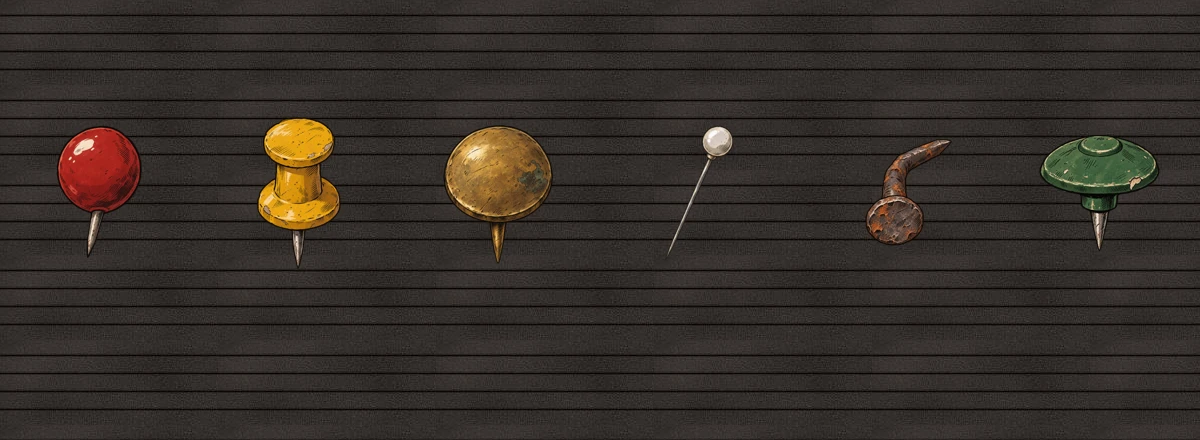
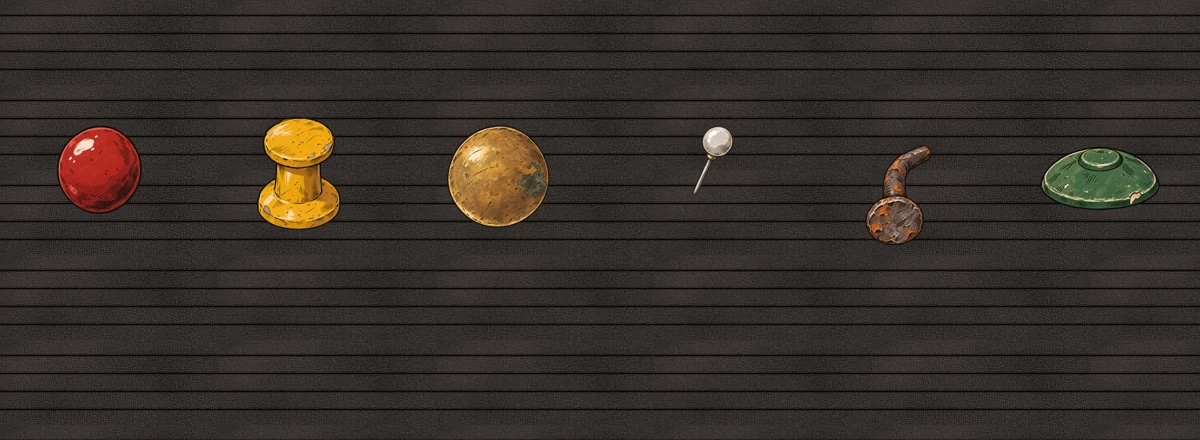
Careers: letter board frame and pins, second round

diff --git a/docs/design/carriere/asset/bacheca/registro.md b/docs/design/carriere/asset/bacheca/registro.md
@@ -281,3 +281,253 @@ Aggiunte dalla regia il 12 novembre 2026: l'esecutore le ha consegnate senza reg
 |---|---|
 | `composizioni/cornice-nove-fette.webp` | 820ab3747b6950e8ef18186cbd8e1f1569891a350e7ff9073be9c715bb380905 |
 | `composizioni/puntine-feltro.webp` | db0c9e9fe560009510132c092ea4f4b348d194949361bcb74d5b8585a3ad7a5b |
+
+## cornice-2
+
+| Campo | Valore |
+|---|---|
+| Operatore | Codex, sessione con generazione integrata |
+| Strumento | image_gen integrato in Codex; URL non esposto |
+| Modello / versione | non esposto dallo strumento |
+| Data e ora (file originale) | 12/11/2026 11:20:27 +0100 |
+| ID job | non esposto dallo strumento |
+| Commit preventivo dei prompt | `9b016d5` |
+| Prompt | [prompt-bacheca.md](../../prompt-bacheca.md#secondo-giro), cornice; testo integrale sotto |
+| Modalità | modifica guidata dal riferimento |
+| Dimensioni richieste | conservare dimensioni originali (1254×1254 px) |
[1 lines of base64/hex data omitted]
+| Parametri | un risultato; trasparenza richiesta; qualità e altri parametri non esposti |
+| Seed | non esposto dallo strumento |
+| Prompt riscritto | non esposto dallo strumento |
+| Campo negativo | paragrafo Avoid nel campo principale; nessun campo negativo separato |
[1 lines of base64/hex data omitted]
+| Altri allegati | nessuno |
+| Termini d’uso, condizioni e attribuzioni | non verificati |
+| C2PA | non verificato; originale conservato senza modifiche |
[2 lines of base64/hex data omitted]
+| Conversione | Pillow, WebP lossless, piena risoluzione; metadati non conservati; alfa nativo conservato, nessuno scontorno |
+| Esito del tentativo | candidato per il giudizio del proprietario |
+
+Testo inviato integralmente:
+
+~~~text
+Edit the attached frame illustration. Keep its size, shape, transparent inside, the narrow flat moulding, the mitred corners, the hand-inked European comic style and the overall dark stained wood. Change only the wear: make the wood more uniform and darker, an old dark walnut stain that has gone almost black with time and grime. Keep it clearly neglected, with a dull finish, fine scratches, small dents and grime in the joints, but reduce the chipped spots to a few small, scattered ones, and make them dark brown instead of light bare wood. The wear must look irregular and must not repeat along a side, so that the sides still work when cut out and repeated.
+
+Avoid: any other change to the image; light or pale patches; many chips; regular or repeating patterns; any text, letters, numbers, logos, brands, signatures or watermarks; anything inside the frame; gold or a polished antique look; photographic or 3D-rendered style.
+~~~
+
+## tonda-rossa-2
+
+| Campo | Valore |
+|---|---|
+| Operatore | Codex, sessione con generazione integrata |
+| Strumento | image_gen integrato in Codex; URL non esposto |
+| Modello / versione | non esposto dallo strumento |
+| Data e ora (file originale) | 12/11/2026 11:21:10 +0100 |
+| ID job | non esposto dallo strumento |
+| Commit preventivo dei prompt | `9b016d5` |
+| Prompt | [prompt-bacheca.md](../../prompt-bacheca.md#secondo-giro), tonda-rossa; testo integrale sotto |
+| Modalità | modifica guidata dal riferimento |
+| Dimensioni richieste | conservare dimensioni originali (1254×1254 px) |
[1 lines of base64/hex data omitted]
+| Parametri | un risultato; trasparenza richiesta; qualità e altri parametri non esposti |
+| Seed | non esposto dallo strumento |
+| Prompt riscritto | non esposto dallo strumento |
+| Campo negativo | paragrafo Avoid nel campo principale; nessun campo negativo separato |
[1 lines of base64/hex data omitted]
+| Altri allegati | nessuno |
+| Termini d’uso, condizioni e attribuzioni | non verificati |
+| C2PA | non verificato; originale conservato senza modifiche |
[2 lines of base64/hex data omitted]
+| Conversione | Pillow, WebP lossless, piena risoluzione; metadati non conservati; alfa nativo conservato, nessuno scontorno |
+| Esito del tentativo | candidato per il giudizio del proprietario |
+
+Testo inviato integralmente:
+
+~~~text
+Edit the attached object illustration. Keep the object, its colours, its shading, its hand-inked comic style, its size and position on the canvas and the transparent background. Change only this: the pushpin is pushed all the way into a felt board, so its steel point is not visible at all; only the round red plastic head shows, sitting right against the surface, seen from the front and slightly from above.
+
+Avoid: any other change to the object; a visible point, needle or shaft; a board, felt or any surface drawn in the image; cast shadows; any text, letters, numbers, logos, brands, signatures or watermarks; photographic or 3D-rendered style.
+~~~
+
+## cilindro-2
+
+| Campo | Valore |
+|---|---|
+| Operatore | Codex, sessione con generazione integrata |
+| Strumento | image_gen integrato in Codex; URL non esposto |
+| Modello / versione | non esposto dallo strumento |
+| Data e ora (file originale) | 12/11/2026 11:21:55 +0100 |
+| ID job | non esposto dallo strumento |
+| Commit preventivo dei prompt | `9b016d5` |
+| Prompt | [prompt-bacheca.md](../../prompt-bacheca.md#secondo-giro), cilindro; testo integrale sotto |
+| Modalità | modifica guidata dal riferimento |
+| Dimensioni richieste | conservare dimensioni originali (1254×1254 px) |
[1 lines of base64/hex data omitted]
+| Parametri | un risultato; trasparenza richiesta; qualità e altri parametri non esposti |
+| Seed | non esposto dallo strumento |
+| Prompt riscritto | non esposto dallo strumento |
+| Campo negativo | paragrafo Avoid nel campo principale; nessun campo negativo separato |
[1 lines of base64/hex data omitted]
+| Altri allegati | nessuno |
+| Termini d’uso, condizioni e attribuzioni | non verificati |
+| C2PA | non verificato; originale conservato senza modifiche |
[2 lines of base64/hex data omitted]
+| Conversione | Pillow, WebP lossless, piena risoluzione; metadati non conservati; alfa nativo conservato, nessuno scontorno |
+| Esito del tentativo | candidato per il giudizio del proprietario |
+
+Testo inviato integralmente:
+
+~~~text
+Edit the attached object illustration. Keep the object, its colours, its shading, its hand-inked comic style, its size and position on the canvas and the transparent background. Change only this: the push pin is pushed all the way into a felt board, so its steel point is not visible at all; only the yellow cylindrical grip shows, its base sitting right against the surface, seen from the front and slightly from above.
+
+Avoid: any other change to the object; a visible point, needle or shaft; a board, felt or any surface drawn in the image; cast shadows; any text, letters, numbers, logos, brands, signatures or watermarks; photographic or 3D-rendered style.
+~~~
+
+## ottone-2
+
+| Campo | Valore |
+|---|---|
+| Operatore | Codex, sessione con generazione integrata |
+| Strumento | image_gen integrato in Codex; URL non esposto |
+| Modello / versione | non esposto dallo strumento |
+| Data e ora (file originale) | 12/11/2026 11:23:28 +0100 |
+| ID job | non esposto dallo strumento |
+| Commit preventivo dei prompt | `9b016d5` |
+| Prompt | [prompt-bacheca.md](../../prompt-bacheca.md#secondo-giro), ottone; testo integrale sotto |
+| Modalità | modifica guidata dal riferimento |
+| Dimensioni richieste | conservare dimensioni originali (1254×1254 px) |
[1 lines of base64/hex data omitted]
+| Parametri | un risultato; trasparenza richiesta; qualità e altri parametri non esposti |
+| Seed | non esposto dallo strumento |
+| Prompt riscritto | non esposto dallo strumento |
+| Campo negativo | paragrafo Avoid nel campo principale; nessun campo negativo separato |
[1 lines of base64/hex data omitted]
+| Altri allegati | nessuno |
+| Termini d’uso, condizioni e attribuzioni | non verificati |
+| C2PA | non verificato; originale conservato senza modifiche |
[2 lines of base64/hex data omitted]
+| Conversione | Pillow, WebP lossless, piena risoluzione; metadati non conservati; alfa nativo conservato, nessuno scontorno |
+| Esito del tentativo | candidato per il giudizio del proprietario |
+
+Testo inviato integralmente:
+
+~~~text
+Edit the attached object illustration. Keep the object, its colours, its shading, its hand-inked comic style, its size and position on the canvas and the transparent background. Change only this: the brass thumbtack is pushed all the way into a felt board, so its point is not visible at all; only the domed brass head shows, its rim sitting right against the surface, seen almost face-on.
+
+Avoid: any other change to the object; a visible point, needle or shaft; a board, felt or any surface drawn in the image; cast shadows; any text, letters, numbers, logos, brands, signatures or watermarks; photographic or 3D-rendered style.
+~~~
+
+## spillo-2
+
+| Campo | Valore |
+|---|---|
+| Operatore | Codex, sessione con generazione integrata |
+| Strumento | image_gen integrato in Codex; URL non esposto |
+| Modello / versione | non esposto dallo strumento |
+| Data e ora (file originale) | 12/11/2026 11:24:09 +0100 |
+| ID job | non esposto dallo strumento |
+| Commit preventivo dei prompt | `9b016d5` |
+| Prompt | [prompt-bacheca.md](../../prompt-bacheca.md#secondo-giro), spillo; testo integrale sotto |
+| Modalità | modifica guidata dal riferimento |
+| Dimensioni richieste | conservare dimensioni originali (1254×1254 px) |
[1 lines of base64/hex data omitted]
+| Parametri | un risultato; trasparenza richiesta; qualità e altri parametri non esposti |
+| Seed | non esposto dallo strumento |
+| Prompt riscritto | non esposto dallo strumento |
+| Campo negativo | paragrafo Avoid nel campo principale; nessun campo negativo separato |
[1 lines of base64/hex data omitted]
+| Altri allegati | nessuno |
+| Termini d’uso, condizioni e attribuzioni | non verificati |
+| C2PA | non verificato; originale conservato senza modifiche |
[2 lines of base64/hex data omitted]
+| Conversione | Pillow, WebP lossless, piena risoluzione; metadati non conservati; alfa nativo conservato, nessuno scontorno |
+| Esito del tentativo | candidato per il giudizio del proprietario |
+
+Testo inviato integralmente:
+
+~~~text
+Edit the attached object illustration. Keep the object, its colours, its shading, its hand-inked comic style, its size and position on the canvas and the transparent background. Change only this: the dressmaker's pin is stuck crooked into a felt board, so only the pearl head and a short part of the steel shaft show, and the shaft ends where it enters the felt: the tip is buried and not visible, and the end of the visible shaft is cut cleanly and slightly darkened, as if disappearing into the board.
+
+Avoid: any other change to the object; a visible tip or sharp point; a board, felt or any surface drawn in the image; cast shadows; any text, letters, numbers, logos, brands, signatures or watermarks; photographic or 3D-rendered style.
+~~~
+
+## chiodino-2
+
+| Campo | Valore |
+|---|---|
+| Operatore | Codex, sessione con generazione integrata |
+| Strumento | image_gen integrato in Codex; URL non esposto |
+| Modello / versione | non esposto dallo strumento |
+| Data e ora (file originale) | 12/11/2026 11:24:56 +0100 |
+| ID job | non esposto dallo strumento |
+| Commit preventivo dei prompt | `9b016d5` |
+| Prompt | [prompt-bacheca.md](../../prompt-bacheca.md#secondo-giro), chiodino; testo integrale sotto |
+| Modalità | modifica guidata dal riferimento |
+| Dimensioni richieste | conservare dimensioni originali (1254×1254 px) |
[1 lines of base64/hex data omitted]
+| Parametri | un risultato; trasparenza richiesta; qualità e altri parametri non esposti |
+| Seed | non esposto dallo strumento |
+| Prompt riscritto | non esposto dallo strumento |
+| Campo negativo | paragrafo Avoid nel campo principale; nessun campo negativo separato |
[1 lines of base64/hex data omitted]
+| Altri allegati | nessuno |
+| Termini d’uso, condizioni e attribuzioni | non verificati |
+| C2PA | non verificato; originale conservato senza modifiche |
[2 lines of base64/hex data omitted]
+| Conversione | Pillow, WebP lossless, piena risoluzione; metadati non conservati; alfa nativo conservato, nessuno scontorno |
+| Esito del tentativo | candidato per il giudizio del proprietario |
+
+Testo inviato integralmente:
+
+~~~text
+Edit the attached object illustration. Keep the object, its colours, its shading, its hand-inked comic style, its size and position on the canvas and the transparent background. Change only this: the bent nail is hammered halfway into a felt board, so its tip is buried and not visible; the bent shank comes out of the board, and its lower end is cut cleanly and slightly darkened where it disappears into the felt. Only the round head and the bent upper part of the shank show, with their rust.
+
+Avoid: any other change to the object; a visible tip or sharp point; a board, felt or any surface drawn in the image; cast shadows; any text, letters, numbers, logos, brands, signatures or watermarks; photographic or 3D-rendered style.
+~~~
+
+## ombrello-2
+
+| Campo | Valore |
+|---|---|
+| Operatore | Codex, sessione con generazione integrata |
+| Strumento | image_gen integrato in Codex; URL non esposto |
+| Modello / versione | non esposto dallo strumento |
+| Data e ora (file originale) | 12/11/2026 11:25:40 +0100 |
+| ID job | non esposto dallo strumento |
+| Commit preventivo dei prompt | `9b016d5` |
+| Prompt | [prompt-bacheca.md](../../prompt-bacheca.md#secondo-giro), ombrello; testo integrale sotto |
+| Modalità | modifica guidata dal riferimento |
+| Dimensioni richieste | conservare dimensioni originali (1254×1254 px) |
[1 lines of base64/hex data omitted]
+| Parametri | un risultato; trasparenza richiesta; qualità e altri parametri non esposti |
+| Seed | non esposto dallo strumento |
+| Prompt riscritto | non esposto dallo strumento |
+| Campo negativo | paragrafo Avoid nel campo principale; nessun campo negativo separato |
[1 lines of base64/hex data omitted]
+| Altri allegati | nessuno |
+| Termini d’uso, condizioni e attribuzioni | non verificati |
+| C2PA | non verificato; originale conservato senza modifiche |
[2 lines of base64/hex data omitted]
+| Conversione | Pillow, WebP lossless, piena risoluzione; metadati non conservati; alfa nativo conservato, nessuno scontorno |
+| Esito del tentativo | candidato per il giudizio del proprietario |
+
+Testo inviato integralmente:
+
+~~~text
+Edit the attached object illustration. Keep the object, its colours, its shading, its hand-inked comic style, its size and position on the canvas and the transparent background. Change only this: the map pin is pushed all the way into a felt board, so its steel point is not visible at all; only the umbrella-shaped green head, with its chipped edge, shows, sitting right against the surface, seen from the front and slightly from above.
+
+Avoid: any other change to the object; a visible point, needle or shaft; a board, felt or any surface drawn in the image; cast shadows; any text, letters, numbers, logos, brands, signatures or watermarks; photographic or 3D-rendered style.
+~~~
+
+## Composizioni del secondo giro
+
[2 lines of base64/hex data omitted]

diff --git a/docs/design/carriere/prompt-bacheca.md b/docs/design/carriere/prompt-bacheca.md
@@ -198,3 +198,10 @@ Avoid: any other change to the object; a visible point, needle or shaft; a board
 
 | Asset | File | Scheda del registro | Giudizio del proprietario |
 |---|---|---|---|
+| cornice | [cornice.webp](asset/bacheca/cornice.webp) | [cornice-2](asset/bacheca/registro.md#cornice-2) | |
+| tonda-rossa | [puntine/tonda-rossa.webp](asset/bacheca/puntine/tonda-rossa.webp) | [tonda-rossa-2](asset/bacheca/registro.md#tonda-rossa-2) | |
+| cilindro | [puntine/cilindro.webp](asset/bacheca/puntine/cilindro.webp) | [cilindro-2](asset/bacheca/registro.md#cilindro-2) | |
+| ottone | [puntine/ottone.webp](asset/bacheca/puntine/ottone.webp) | [ottone-2](asset/bacheca/registro.md#ottone-2) | |
+| spillo | [puntine/spillo.webp](asset/bacheca/puntine/spillo.webp) | [spillo-2](asset/bacheca/registro.md#spillo-2) | |
+| chiodino | [puntine/chiodino.webp](asset/bacheca/puntine/chiodino.webp) | [chiodino-2](asset/bacheca/registro.md#chiodino-2) | |
+| ombrello | [puntine/ombrello.webp](asset/bacheca/puntine/ombrello.webp) | [ombrello-2](asset/bacheca/registro.md#ombrello-2) | |
